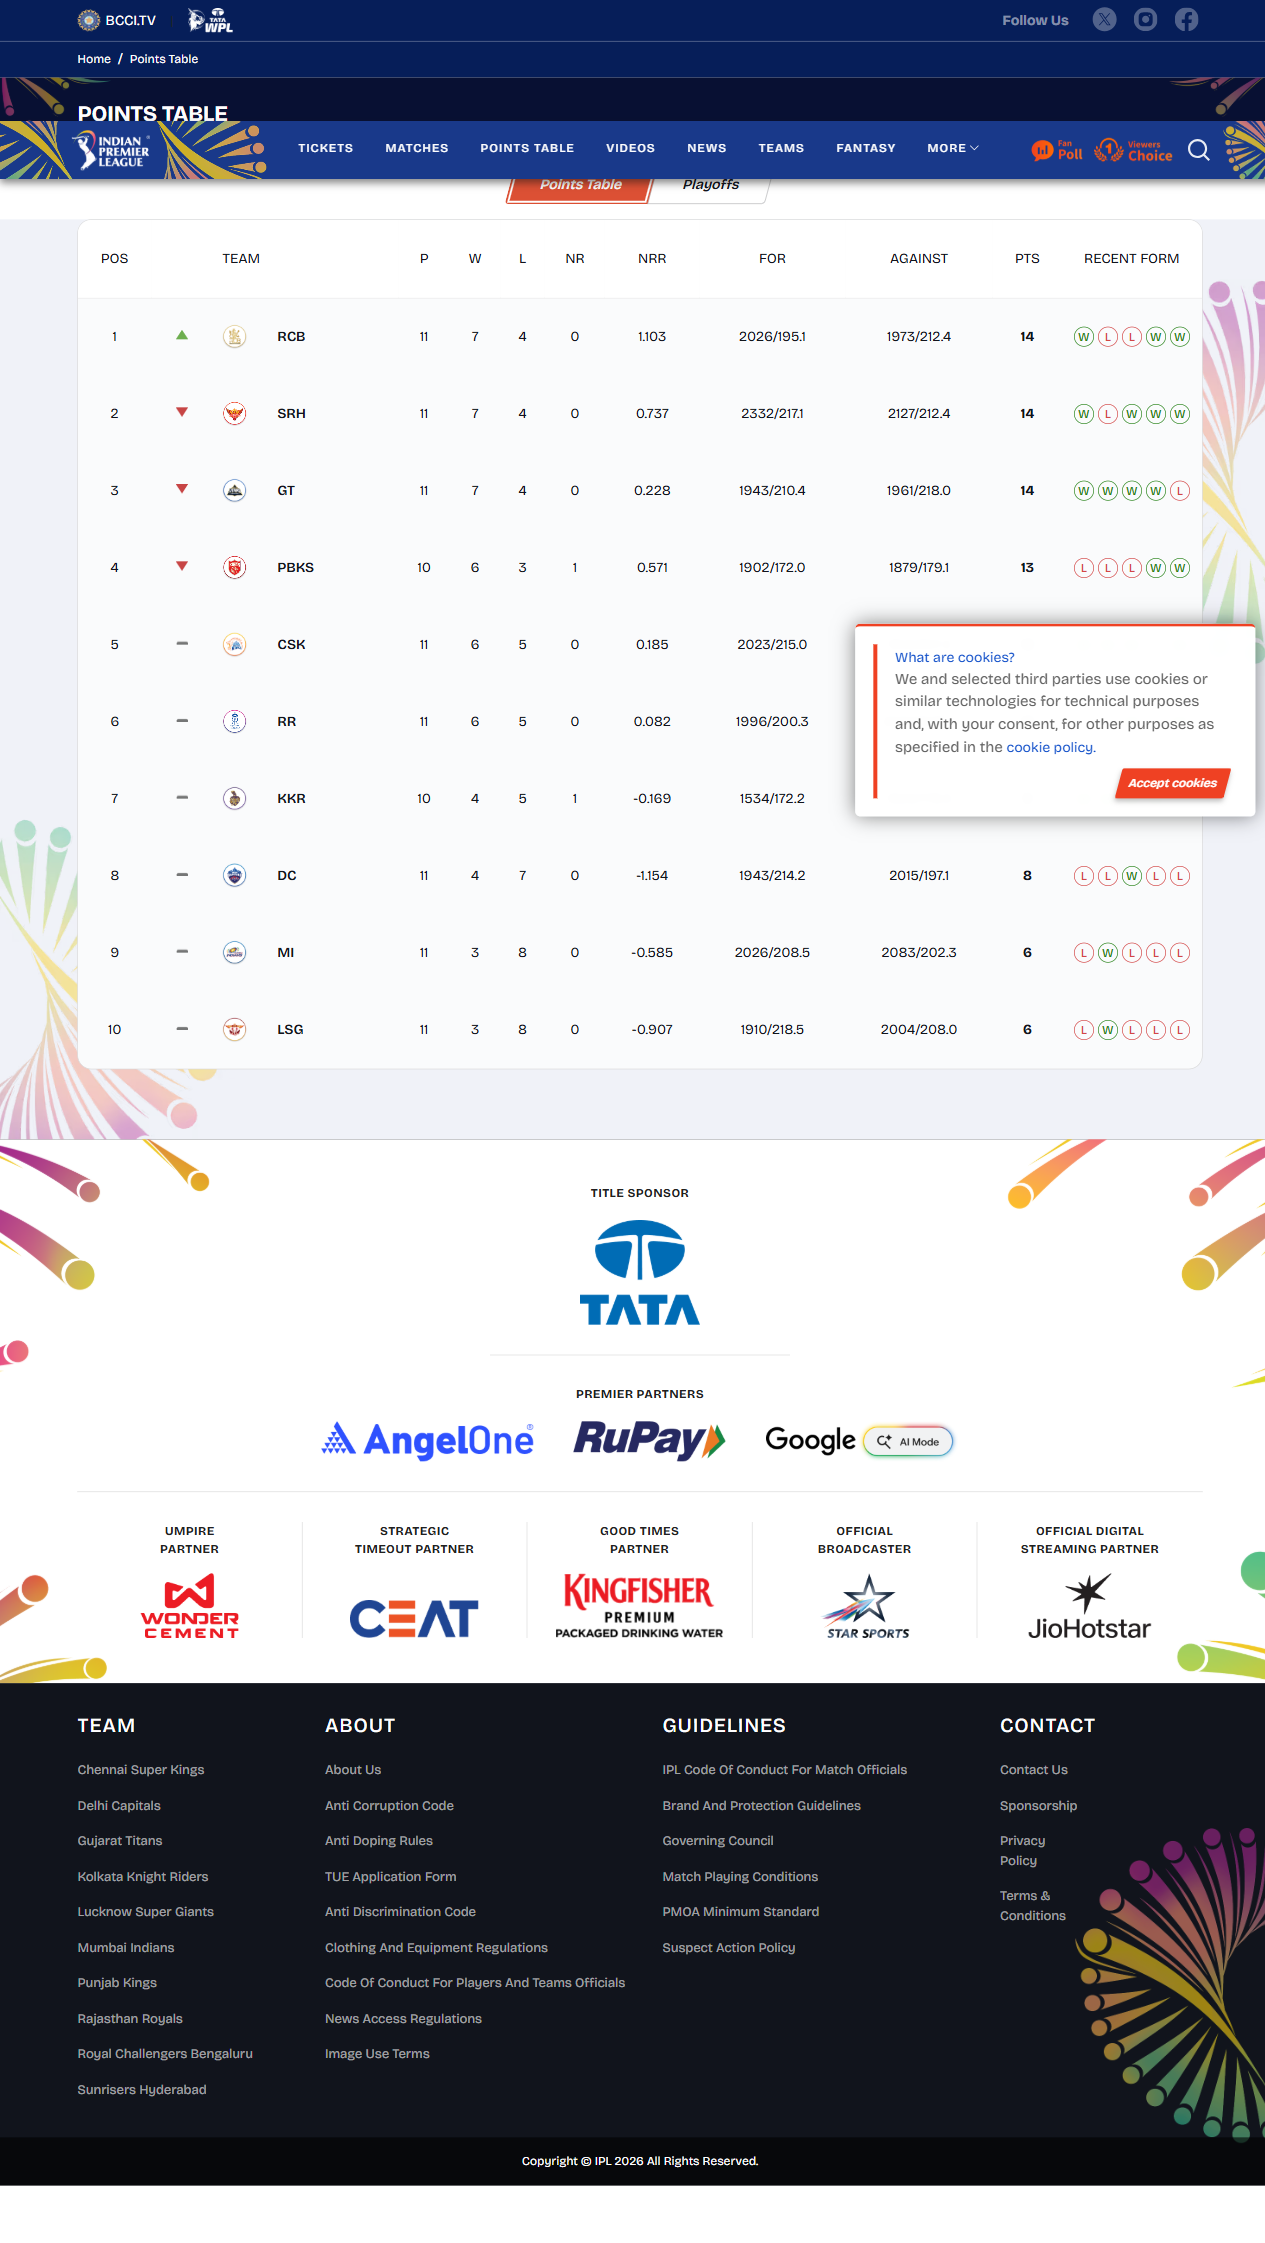
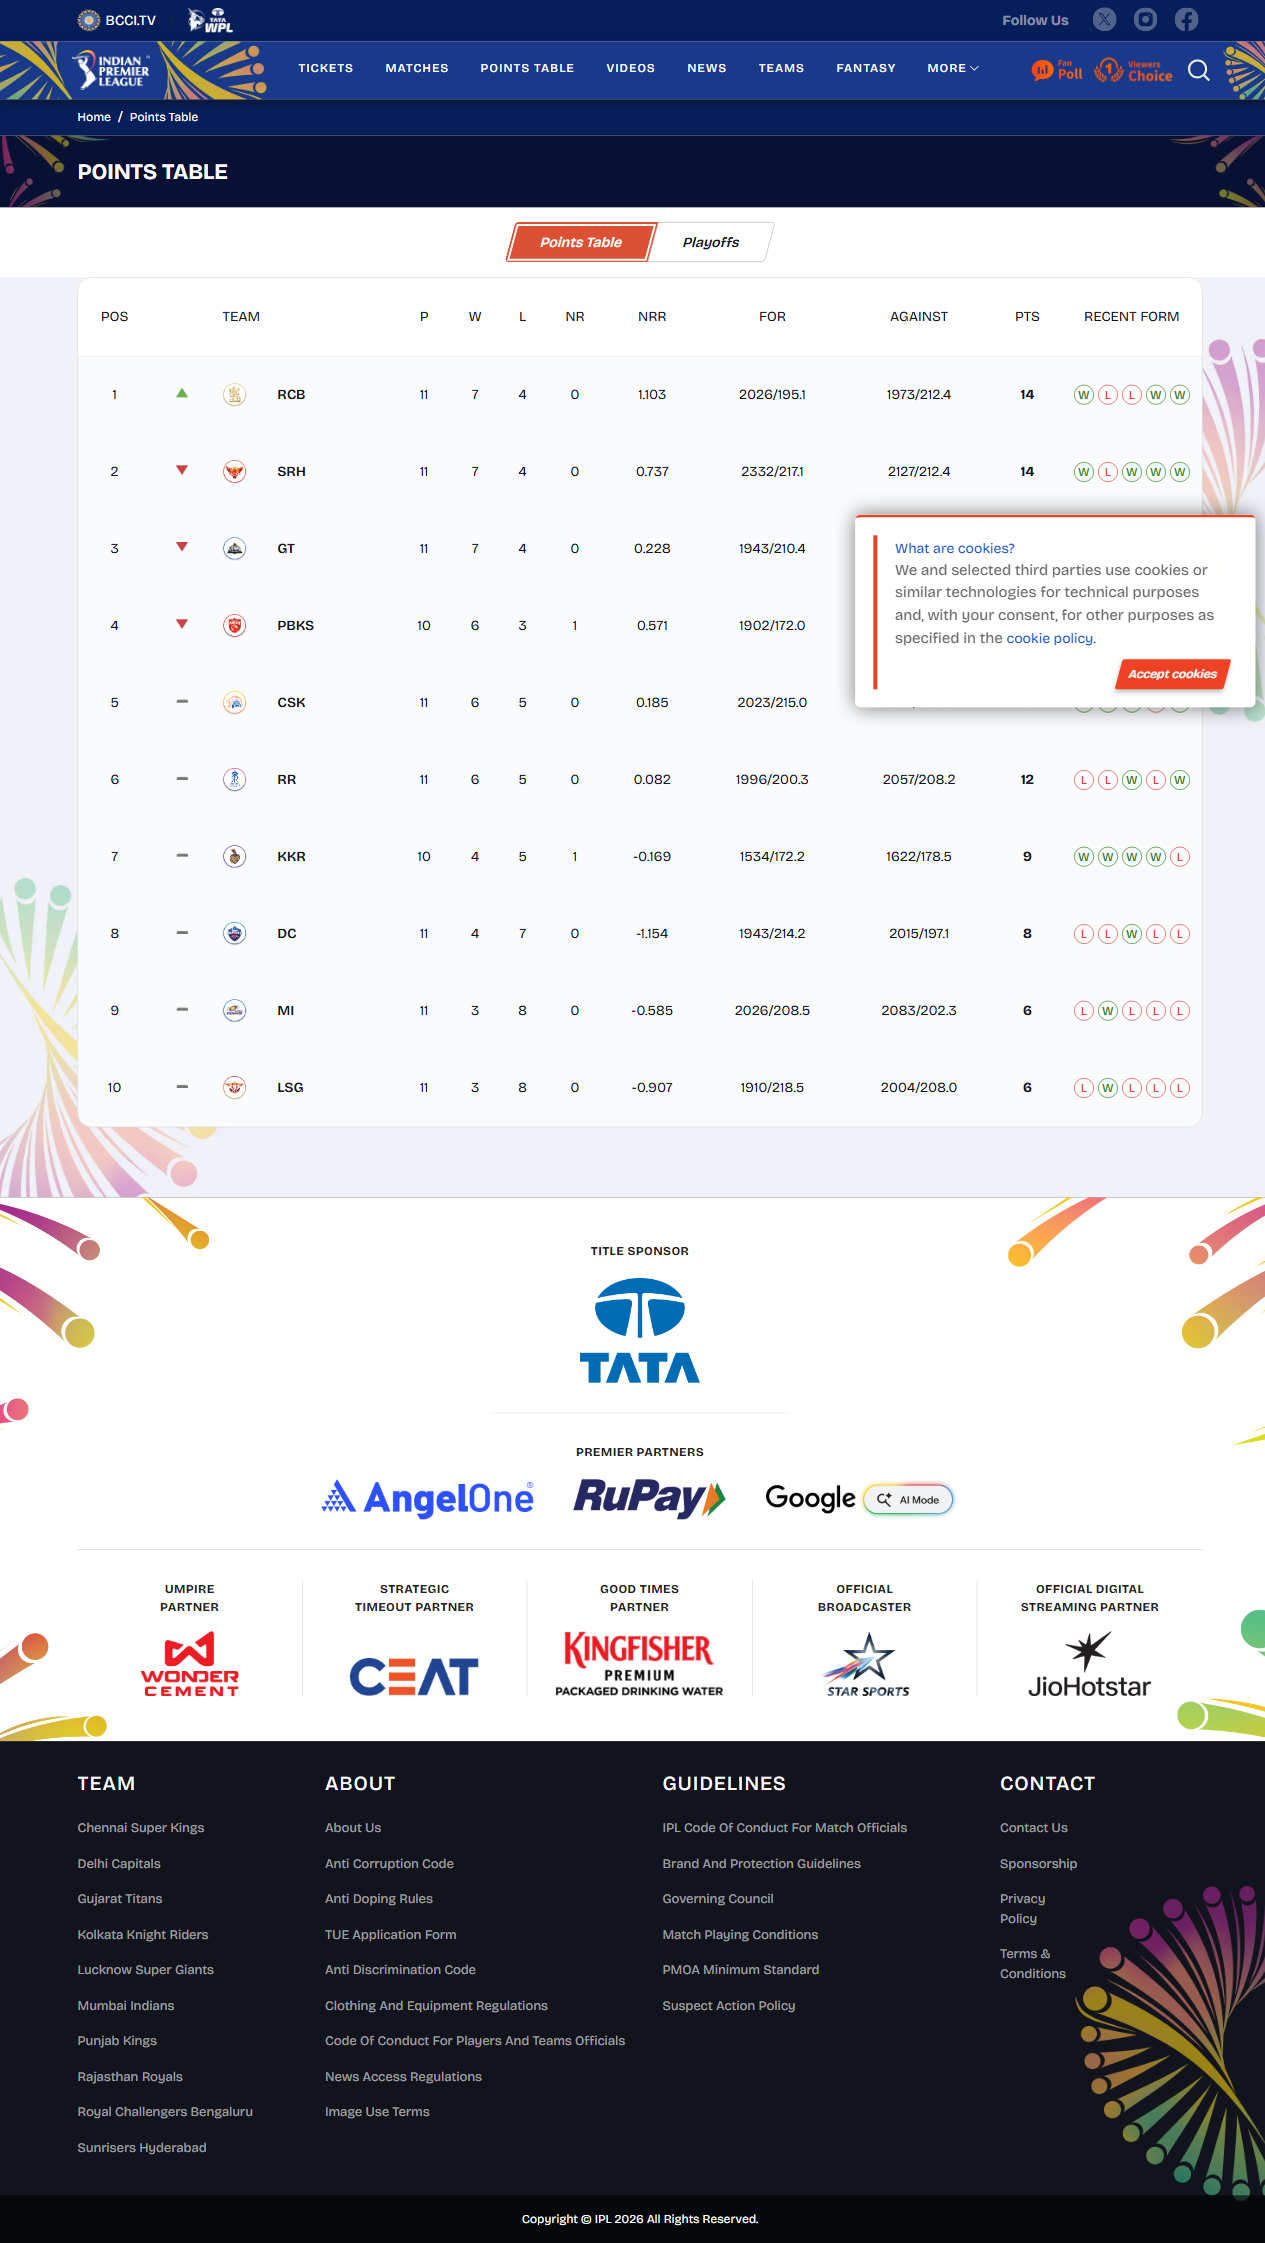
Added thread local for parallel execution with thread safety

diff --git a/src/test/java/utils/PlaywrightFactory.java b/src/test/java/utils/PlaywrightFactory.java
@@ -4,48 +4,48 @@ import com.microsoft.playwright.*;
 
 public class PlaywrightFactory {
 
-    private static Playwright playwright;
-    private static Browser browser;
-    private static BrowserContext browserContext;
-    public static Page page;
+    private static final ThreadLocal<Playwright> tlPlaywright = new ThreadLocal<>();
+    private static final ThreadLocal<Browser> tlBrowser = new ThreadLocal<>();
+    private static final ThreadLocal<BrowserContext> tlBrowserContext = new ThreadLocal<>();
+    private static final ThreadLocal<Page> tlPage = new ThreadLocal<>();
 
     public static Page initBrowser(String browserName) {
 
-        playwright = Playwright.create();
+        Playwright playwright = Playwright.create();
+        tlPlaywright.set(playwright);
 
+        Browser browser;
         switch (browserName.toLowerCase()) {
 
             case "chromium":
-
                 browser = playwright.chromium()
                         .launch(new BrowserType.LaunchOptions()
                                 .setHeadless(false));
-
                 break;
 
             case "firefox":
-
                 browser = playwright.firefox()
                         .launch(new BrowserType.LaunchOptions()
                                 .setHeadless(false));
-
                 break;
 
             case "webkit":
-
                 browser = playwright.webkit()
                         .launch(new BrowserType.LaunchOptions()
                                 .setHeadless(false));
-
                 break;
 
             default:
                 throw new RuntimeException("Please pass correct browser value");
         }
 
-        browserContext = browser.newContext();
+        tlBrowser.set(browser);
 
-        page = browserContext.newPage();
+        BrowserContext browserContext = browser.newContext();
+        tlBrowserContext.set(browserContext);
+
+        Page page = browserContext.newPage();
+        tlPage.set(page);
 
         page.setDefaultTimeout(30000);
 
@@ -53,25 +53,33 @@ public class PlaywrightFactory {
     }
 
     public static Page getPage() {
-        return page;
+        return tlPage.get();
     }
 
     public static void closeBrowser() {
 
+        Page page = tlPage.get();
         if (page != null) {
             page.close();
+            tlPage.remove();
         }
 
+        BrowserContext browserContext = tlBrowserContext.get();
         if (browserContext != null) {
             browserContext.close();
+            tlBrowserContext.remove();
         }
 
+        Browser browser = tlBrowser.get();
         if (browser != null) {
             browser.close();
+            tlBrowser.remove();
         }
 
+        Playwright playwright = tlPlaywright.get();
         if (playwright != null) {
             playwright.close();
+            tlPlaywright.remove();
         }
     }
 }

diff --git a/src/test/java/Tests/AutoWaitTest.java b/src/test/java/Tests/AutoWaitTest.java
@@ -5,8 +5,6 @@ import Page.IPLTablePage;
 import org.testng.Assert;
 import org.testng.annotations.Test;
 
-import static utils.PlaywrightFactory.page;
-
 public class AutoWaitTest extends BaseTest {
 
         @Test